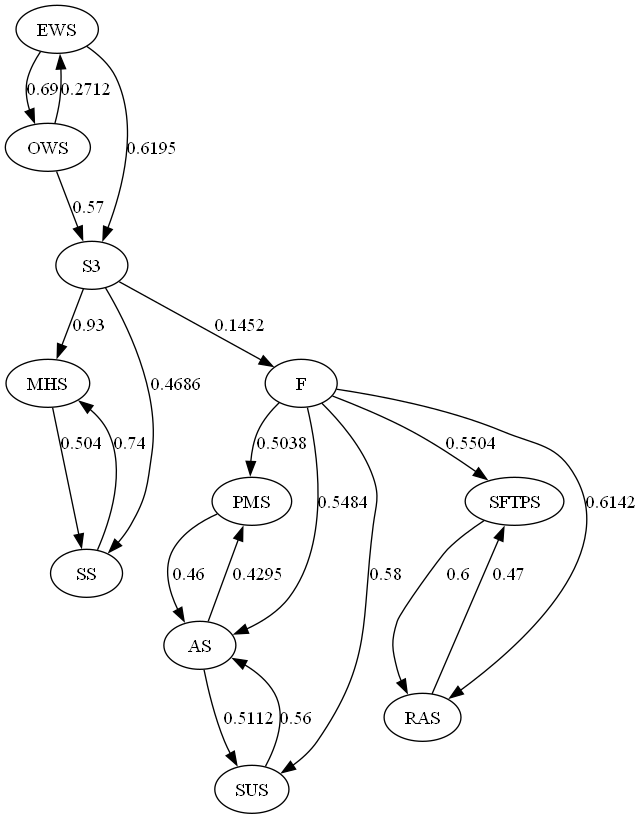
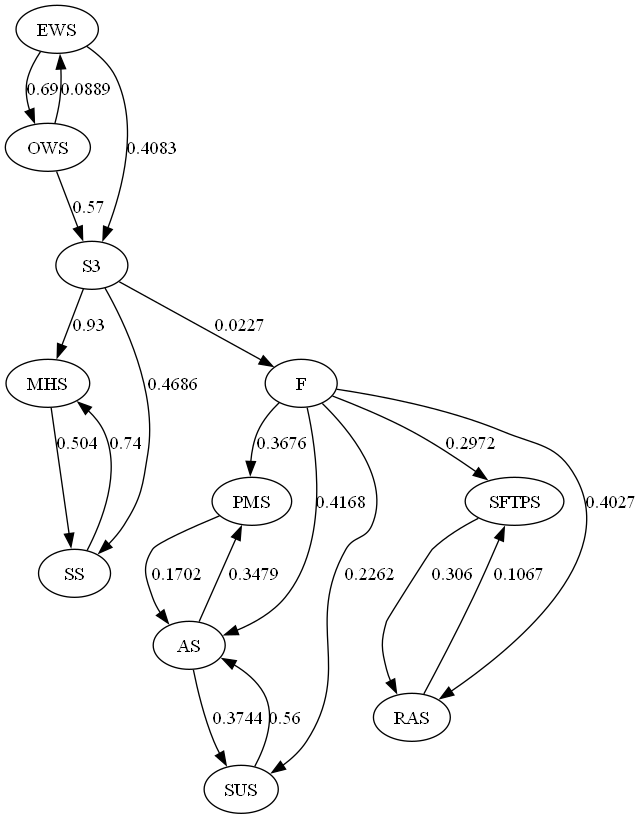
Update

diff --git a/main.py b/main.py
@@ -52,7 +52,7 @@ def main():
 
     # le liste sono da modificare
     
-    # Caso in cui NON si raggiunge un rischio accettabile
+    # Caso in cui NON si raggiunge un rischio accettabile al primo SSG
     countermeasures = [[500, 0.2,'OWS','EWS','S'], 
                        [100, 0.08,'EWS','S3','D'], 
                        [356, 0.31,'S3','F','T'],
@@ -60,14 +60,23 @@ def main():
                        [150, 0.21, 'S3', 'SS','T'],
                        [574, 0.38,'MHS','SS','S'], 
                        [710, 0.24,'F','AS','D'], 
-                       [632, 0.17,'F','RAS','E'], 
-                       [759, 0.26,'F','PMS','I'], 
+                       [632, 0.17,'F','RAS','E'],
+                       [3632, 0.17,'F','RAS','S'],
+                       [1275, 0.21,'F','RAS','I'], 
+                       [759, 0.46,'F','PMS','I'],
+                       [691, 0.61,'F','SUS','D'], 
                        [542, 0.36,'F','SFTPS','S'],
-                       [1542, 0.41,'AS','PMS','E'], 
-                       [2358, 0.29,'AS','SUS','I']]
+                       [1890, 0.46,'F','SFTPS','I'],
+                       [1542, 0.41,'AS','PMS','E'],
+                       [623, 0.19,'AS','PMS','T'],
+                       [2358, 0.29,'AS','SUS','I'],
+                       [358, 0.48,'AS','SUS','S'],
+                       [857, 0.63,'PMS','AS','D'], 
+                       [3260, 0.39,'RAS','SFTPS','E'],
+                       [2260, 0.49,'SFTPS','RAS','T']]
     
     """
-    # Caso in cui si raggiunge un rischio accettabile
+    # Caso in cui si raggiunge un rischio accettabile al primo SSG
     countermeasures = [[500, 0.25,'OWS','EWS','S'], 
                        [100, 0.08,'EWS','S3','E'],
                        [356, 0.31,'S3','F','T'], 
@@ -141,6 +150,8 @@ def main():
 
         ut.print_graph_png(graph, 0)
 
+        print(f"Budget Iniziale: {budget_defender}")
+
         done = False
 
         # print(f"\nRischio iniziale: {ut.get_graph_risk(graph,source_list)} \n")
@@ -186,7 +197,7 @@ def main():
 
                     print(f"Il rischio {new_graph_risk} ottenuto NON è accettabile \n")
                     graph = previous_graph.copy()
-                    budget_defender = previous_budget + budget_increment
+                    budget_defender = previous_budget + j * budget_increment
                     countermeasures = previous_countermeasures.copy()
 
                 break
@@ -196,7 +207,8 @@ def main():
         # Chiusura dell'environment
         env.close()
 
-        if j == 5 :
+        if j == 10 :
+            print("Contromisure Insufficienti")
             break
 
         j = j + 1
